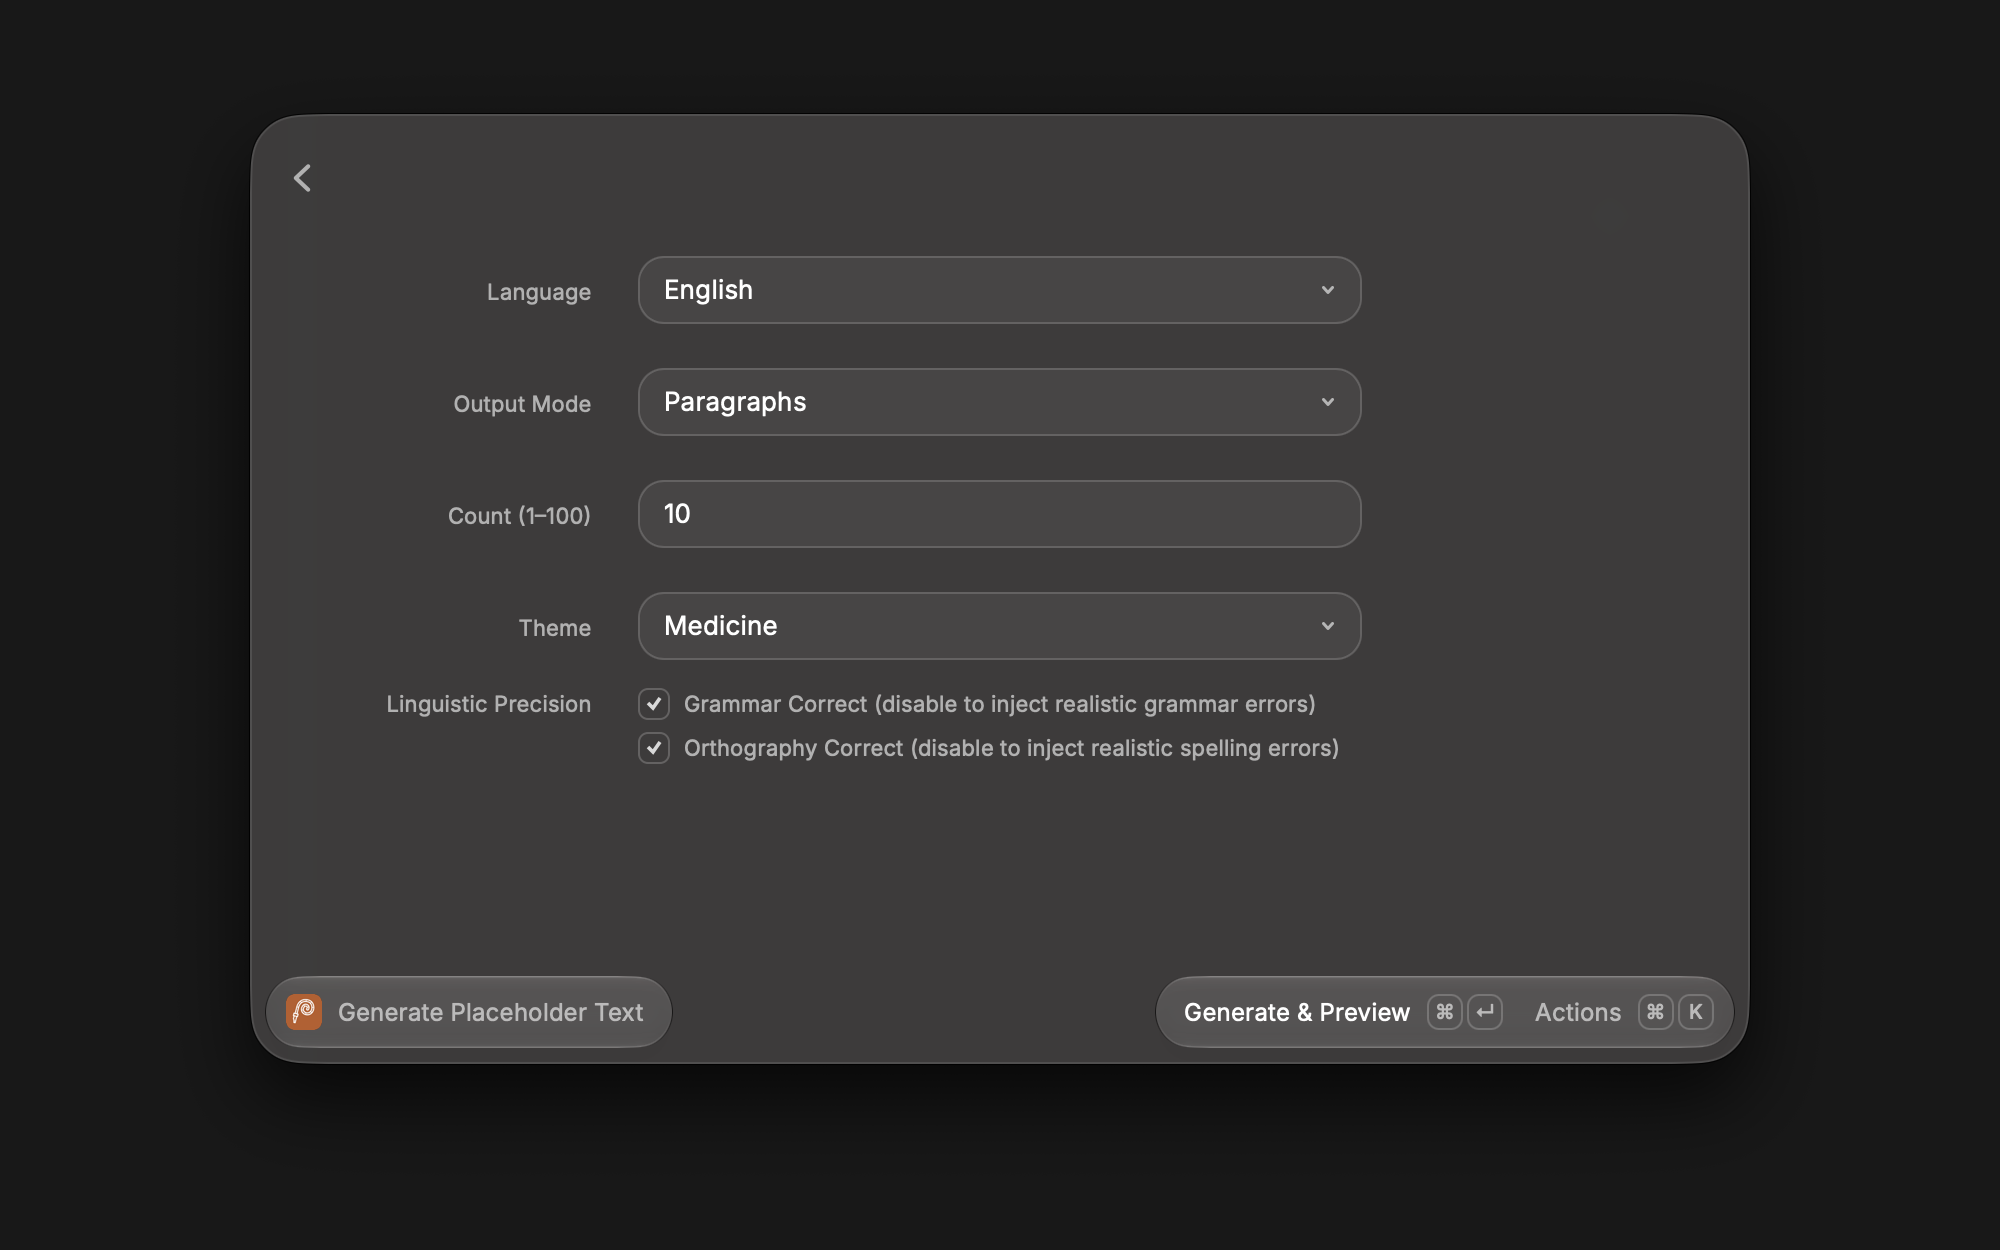
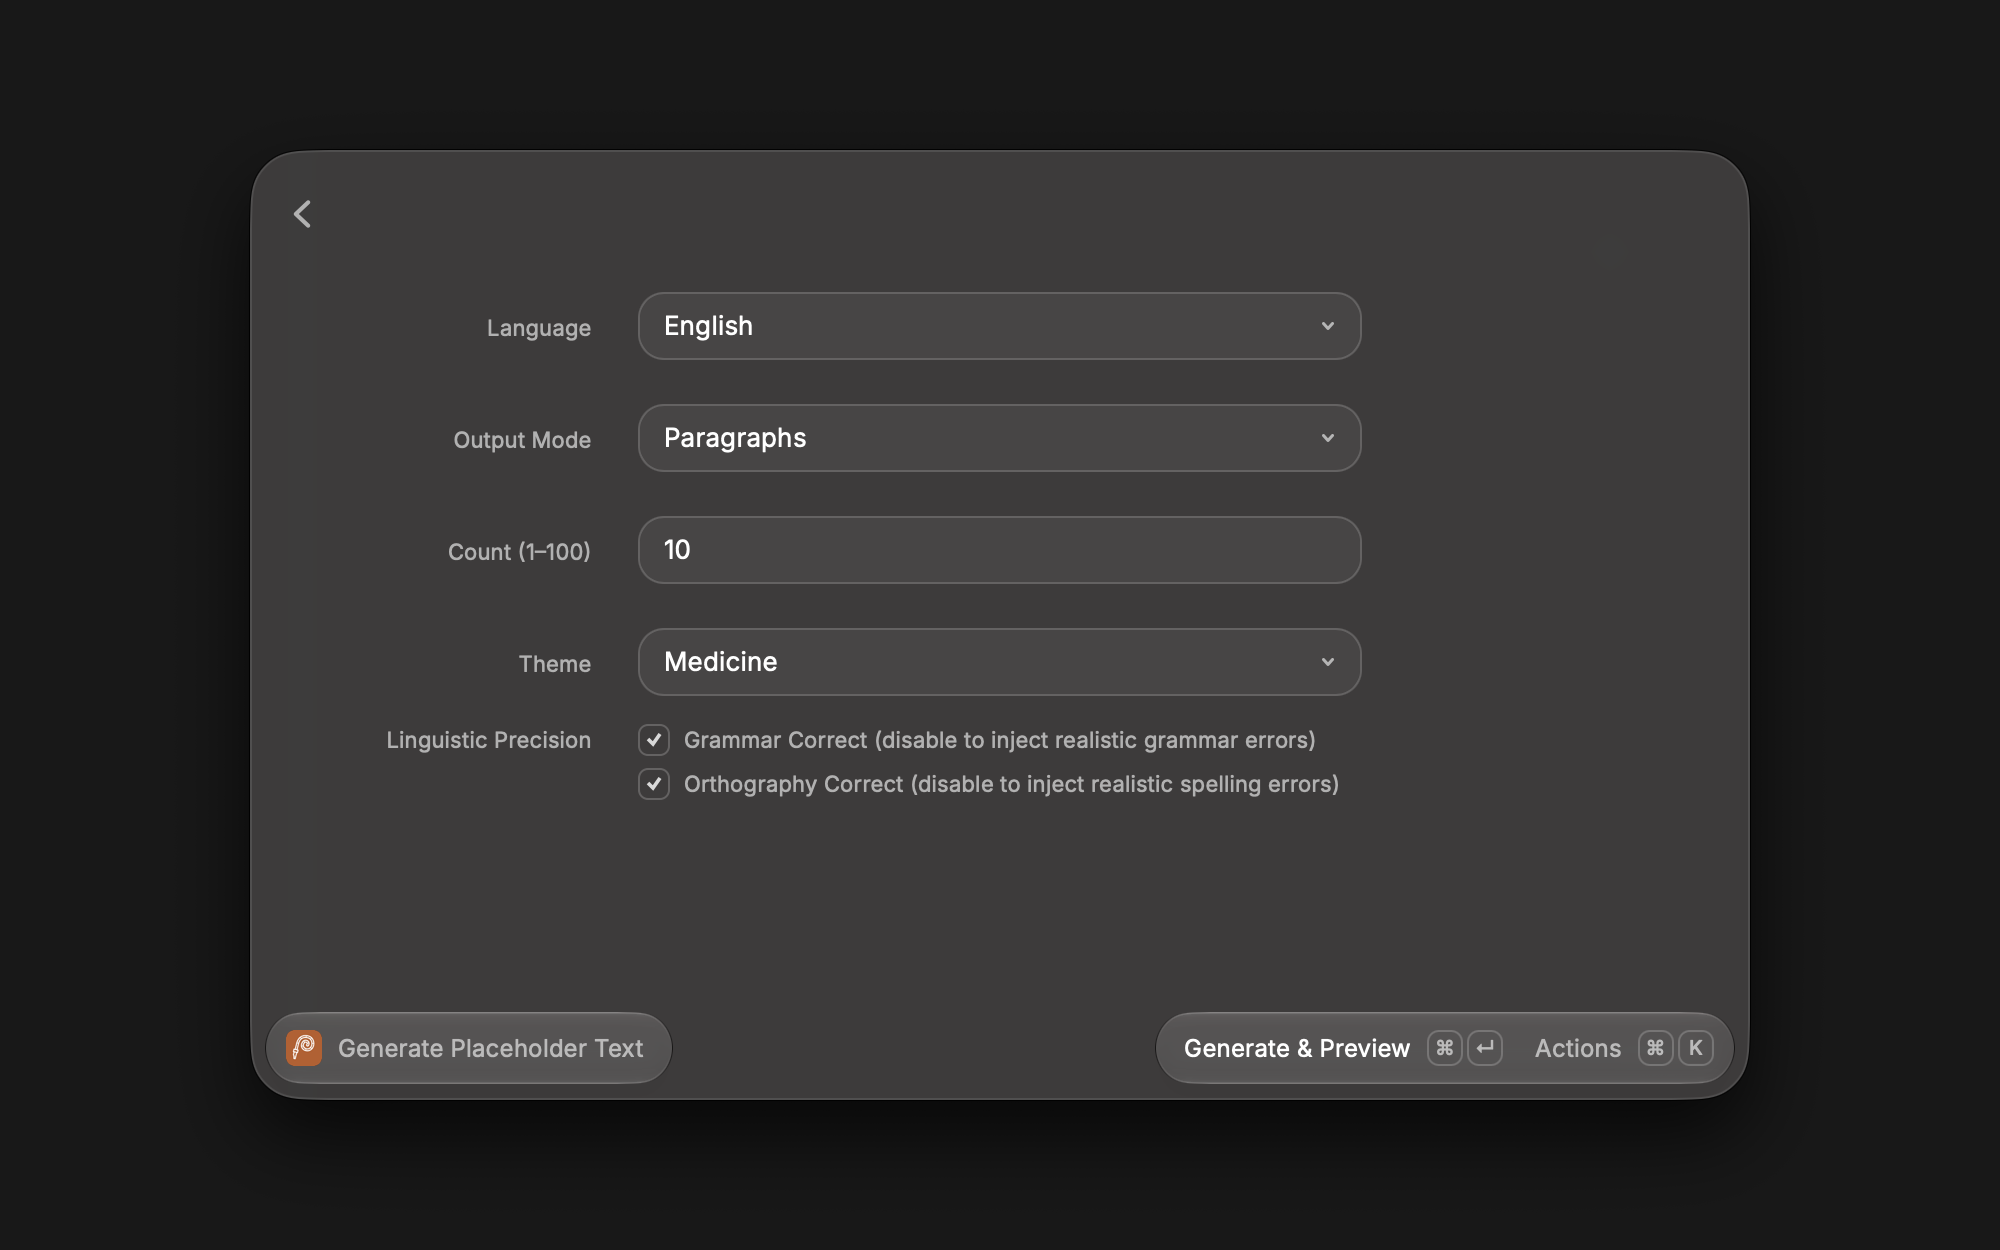
fix(raycast): add CHANGELOG.md and center metadata screenshots

diff --git a/raycast/CHANGELOG.md b/raycast/CHANGELOG.md
@@ -1,0 +1,7 @@
+# Prolixo Changelog
+
+## [Initial Version] - {PR_MERGE_DATE}
+
+- Added **Generate Paragraphs**, **Generate Sentences**, and **Generate Words** quick inline commands.
+- Added **Generate Placeholder Text** interactive form and preview command.
+- Added Extension Preferences for default language, theme, linguistic precision, quick action, and API Base URL.
